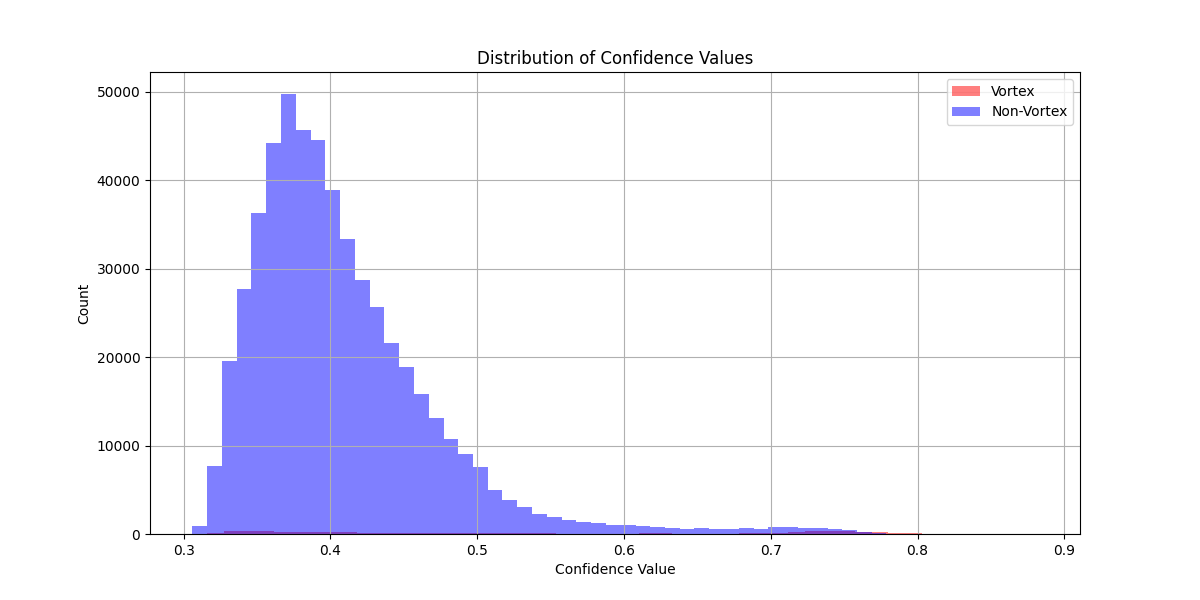
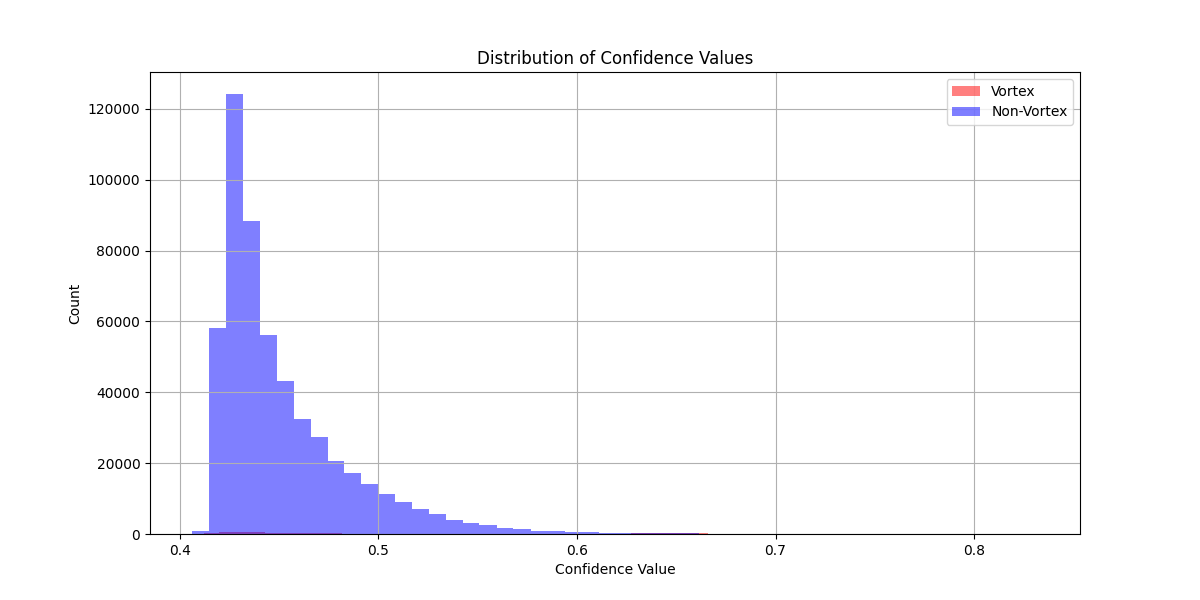
added confidence graphs

diff --git a/models/LSTM/code/lstm_model.py b/models/LSTM/code/lstm_model.py
@@ -1011,9 +1011,11 @@ def main():
     # Train or load model
     if model_path.exists() and not args.retrain:
         print("\nLoading existing model...")
+        # Fix: Register the custom loss function as 'loss_function' for Keras
+        loss_fn = model.temporal_focal_loss()
         model.model = tf.keras.models.load_model(
             model_path,
-            custom_objects={'temporal_focal_loss': model.temporal_focal_loss()}
+            custom_objects={'loss_function': loss_fn}
         )
         print("Model loaded successfully")
     else:
@@ -1042,6 +1044,12 @@ def main():
     print(f"F1-Score: {test_results['f1']:.4f}")
     print(f"ROC-AUC: {test_results['roc_auc']:.4f}")
     print(f"PR-AUC: {test_results['pr_auc']:.4f}")
+
+    # --- NEW: Generate confidence plots for test set ---
+    gt_windows = find_detection_windows(test_data, debug=False)
+    plot_confidence_distribution(y_test, test_results['y_pred_proba'], save_path='confidence_distribution.png')
+    plot_confidence_timeline(test_data, test_results['y_pred_proba'], gt_windows, save_path='confidence_timeline.png')
+    # --- END NEW ---
     
     # Analyze learned patterns
     print("\nAnalyzing learned patterns...")
